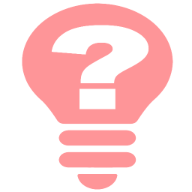
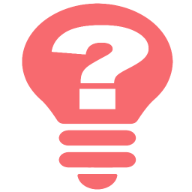
Added analyse routes and updated colours

diff --git a/src/lib/styles/app.css b/src/lib/styles/app.css
@@ -39,6 +39,7 @@
     --material-50-red: rgb(255, 235, 238);
     --material-100-red: rgb(255, 205, 210);
     --material-200-red: rgb(239, 154, 154); /* Logo colour */
+    --material-300-red: rgb(229, 115, 115);
     --material-400-red: rgb(239, 83, 80);
     --material-500-red: rgb(244, 67, 54);
     --material-600-red: rgb(229, 57, 53);
@@ -54,23 +55,27 @@
     --material-700-orange: rgb(245, 124, 0);
     --material-500-yellow : rgb(255, 235, 59);
     --material-grey-400: rgb(189, 189, 189);
+    --material-100-light-blue: rgb(179, 229, 252);
+    --material-400-light-blue: rgb(41, 182, 246);
 
     /* Custom colour variables */
+
+    --colour-yellow: rgb(255,243,76);
 
     --colour-background: white;
     
     --colour-font: var(--material-600-blue-grey);
     --colour-font-faint: var(--material-400-blue-grey);
-    --colour-font-titles: var(--material-800-red);
+    --colour-font-titles: var(--material-700-red);
 
     --colour-link: var(--material-800-red);
     --colour-link-hover: var(--material-400-red);
 
-    --colour-menu: var(--material-800-red);
-    --colour-menu-hover: var(--material-600-red);
+    --colour-menu: var(--material-600-red);
+    --colour-menu-hover: var(--material-300-red);
 
     --colour-post: white;
-    --colour-post-hover: var(--material-50-red);
+    --colour-post-hover: var(--material-500-yellow);
 
     --colour-box-shadow: var(--material-200-blue-grey);
     

diff --git a/src/routes/api/datasets.json.js b/src/routes/api/datasets.json.js
@@ -1,38 +1,10 @@
 // datasets.json.js
+import collections from '../../../static/data/collections.json'
+
+console.log('collections',collections)
 
 export const get = async () => {
-
-	// Pull back all files recursively from the data folder
-	const allDataFiles = import.meta.glob('../../../static/data/*.json')
-	const iterableDataFiles = Object.entries(allDataFiles)
-
-    console.log('allDataFiles',allDataFiles)
-    console.log('iterableDataFiles',iterableDataFiles)
-
-	let allData = await Promise.all(
-		iterableDataFiles.map(async ([path]) => { 
-			// strip off the last five .json chars to obtain the path
-			const stripped = path.slice(21, -5)
-			return { path:stripped }
-		})
-	)
-
-    // Remove credits and collections
-	// @todo stop generating collections
-    allData = allData.filter( item => item.path!='collections' && item.path!='credits' )
-
-	console.log('allData',allData)
-
-	const sortedData = allData.sort((a, b) => {
-        if ( a.path > b.path ){
-            return -1
-        } else if ( b.path > a.path ){
-		    return 1
-        }
-        return 0
-	})
-
 	return {
-		body: sortedData
+		body:collections
 	}
 }

diff --git a/src/routes/datasets.svelte b/src/routes/datasets.svelte
@@ -1,7 +1,8 @@
 
-<!-- @todo UNUSED: Cannot get the associated api endpoint working to find datasets 
-	in the static data folder -->
 <script context="module">
+
+  // import collections from '../../../static/data/collections.json'
+  // console.log('collections',collections)
     
 	/**
      * Load the dataset collections catalogue
@@ -30,7 +31,7 @@
 
 {#each datasets as dataset}
 
-	<p><a href="/explore/{dataset.path}">{dataset.path}</a></p>
+	<p><a href="/explore/{dataset.slug}">{dataset.name}</a></p>
 
 {/each}
 
